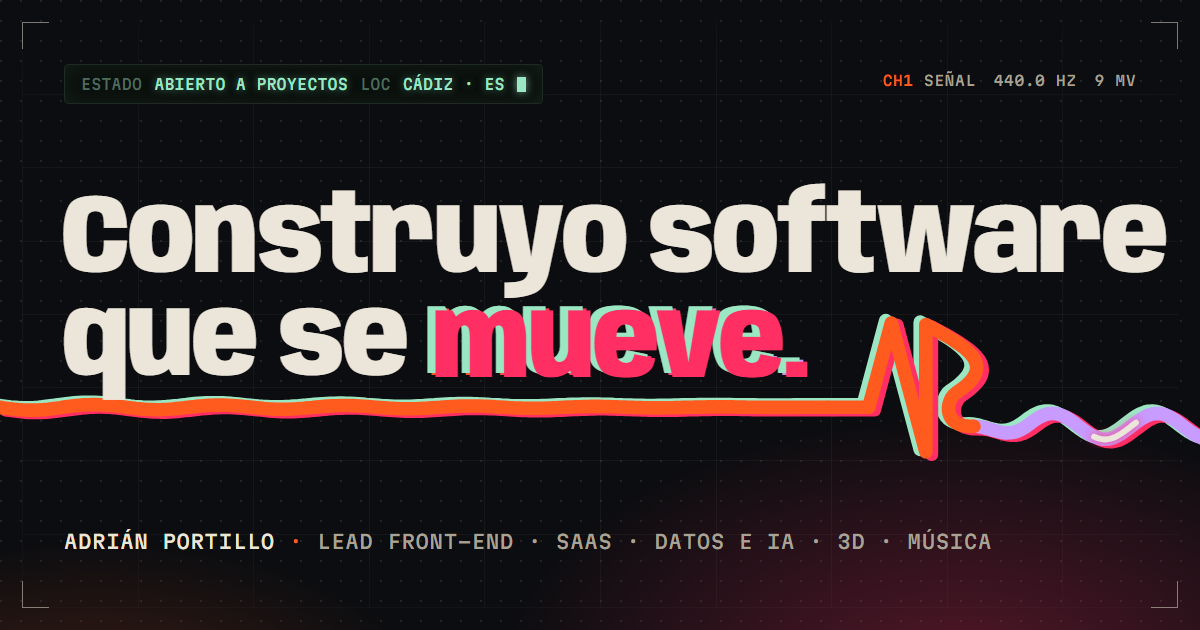
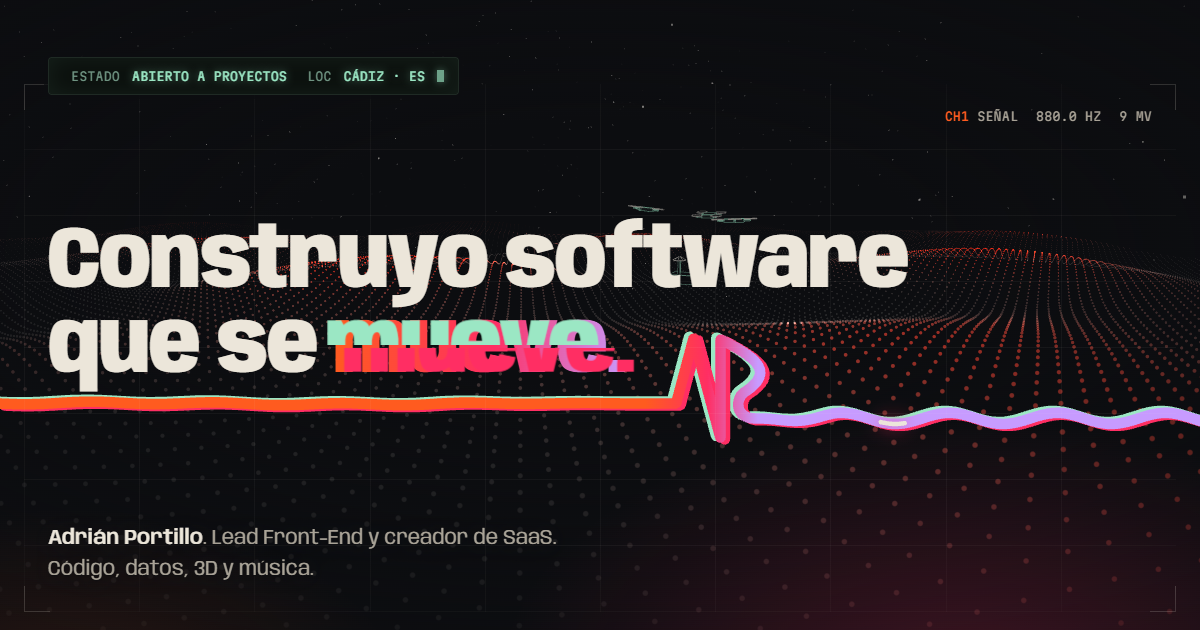
feat(og): capture share images from the real hero (?og mode)
The images now come from the actual hero rendered at 1200x630, so they
match it exactly: gradient trace, 3D terrain, glow, the light beam parked
on the outgoing wave and the glitch frozen mid-slice. Removes the
hand-made template.

diff --git a/src/hero-signal.js b/src/hero-signal.js
@@ -13,6 +13,8 @@ const STEP = 5; // px between wave samples
 const LOGO_SAMPLES = 260;
 const BEAM_PERIOD = 3.2; // seconds for the light beam to run the whole signal
 const BEAM_LEN = 0.016; // fraction of the trace lit by the beam
+// ?og renders the share image from the real hero (scripts/render-og.mjs): the beam is parked on the outgoing wave
+const OG_BEAM = new URLSearchParams(location.search).has('og') ? 0.78 : null;
 
 /** Samples the logo path into points (logo units) by arc length, so it can be drawn progressively. */
 function sampleLogo(d) {
@@ -171,7 +173,7 @@ export function mountHeroSignal(hero, { reduceMotion }) {
       g.fillStyle = '#ece6da';
       g.beginPath(); g.arc(hx, hy, px * 0.45, 0, Math.PI * 2); g.fill();
     } else if (!reduceMotion) { // a beam that keeps running along the signal
-      const a = ((t % BEAM_PERIOD) / BEAM_PERIOD) * total;
+      const a = (OG_BEAM ?? (t % BEAM_PERIOD) / BEAM_PERIOD) * total;
       stroke(segment(a, Math.min(total, a + total * BEAM_LEN)), '#ece6da', 0, 0, px * 0.42);
     }
     g.shadowBlur = 0;

diff --git a/src/style.css b/src/style.css
@@ -615,3 +615,9 @@ kbd { padding: 1px 6px; border: 1px solid var(--line); border-radius: 4px; text-
 @media (prefers-reduced-motion: reduce) {
   *, *::before, *::after { animation: none !important; transition-duration: 0.01ms !important; }
 }
+
+/* ?og: the share image is a capture of the real hero, without chrome */
+.is-og .nav, .is-og .hud, .is-og .cursor, .is-og .toasts, .is-og .hero__scroll, .is-og .hero__ctas, .is-og .hero__hint { display: none !important; }
+.is-og .hero { padding-top: 9vh; }
+/* freeze "mueve." mid-glitch (both slices visible) so every capture shows the cut */
+.is-og .glitch::before, .is-og .glitch::after { animation-delay: -3.75s !important; animation-play-state: paused !important; }

diff --git a/src/main.js b/src/main.js
@@ -205,6 +205,7 @@ function initEasterEggs() {
 }
 
 function init() {
+  if (new URLSearchParams(location.search).has('og')) root.classList.add('is-og'); // share-image capture mode
   document.querySelector('[data-year]').textContent = new Date().getFullYear();
   initLangSwitch();
   initCursor({ reduceMotion });

diff --git a/brand/README.md b/brand/README.md
@@ -18,7 +18,7 @@ La versión principal añade **separación cromática**: dos copias desplazadas 
 | `svg/ap-favicon-small.svg` | Versión simplificada para 16–32 px: sin fantasmas y con trazo más grueso. |
 | `svg/ap-app-icon.svg`, `svg/ap-maskable.svg` | Icono de app y la versión maskable de Android (contenido dentro del 80 %). |
 | `png/*.png` | Exportaciones a 1024 px con transparencia. |
-| `og-source.html` | Fuente de `public/og.png`, la imagen de 1200×630 para compartir. |
+| `public/og.png`, `public/og-en.png` | Imágenes de 1200×630 para compartir. Son capturas del hero real en modo `?og` (sin barra ni cursor, con la balita y el glitch fijos): se regeneran con `node scripts/render-og.mjs` con el servidor de desarrollo arrancado. |
 
 Los iconos web en uso están en `public/`: `favicon.ico`, `favicon.svg`, `apple-touch-icon.png`, `icon-192.png`, `icon-512.png`, `maskable-512.png` y `site.webmanifest`.
 

diff --git a/README.md b/README.md
@@ -65,7 +65,8 @@ src/hero-signal.js    Hero oscilloscope trace
 src/machine*.js       ATH-16 drum machine (engine + UI)
 src/game*.js          Signal Run (logic + rendering)
 api/contact.js        Contact form endpoint (+ tests)
-brand/                Logo kit, usage guide and share-image source
+brand/                Logo kit and usage guide
+scripts/              Icon subset + share images (captured from the real hero, ?og mode)
 legal/                Legal notice, privacy and cookies (ES/EN)
 ```
 
